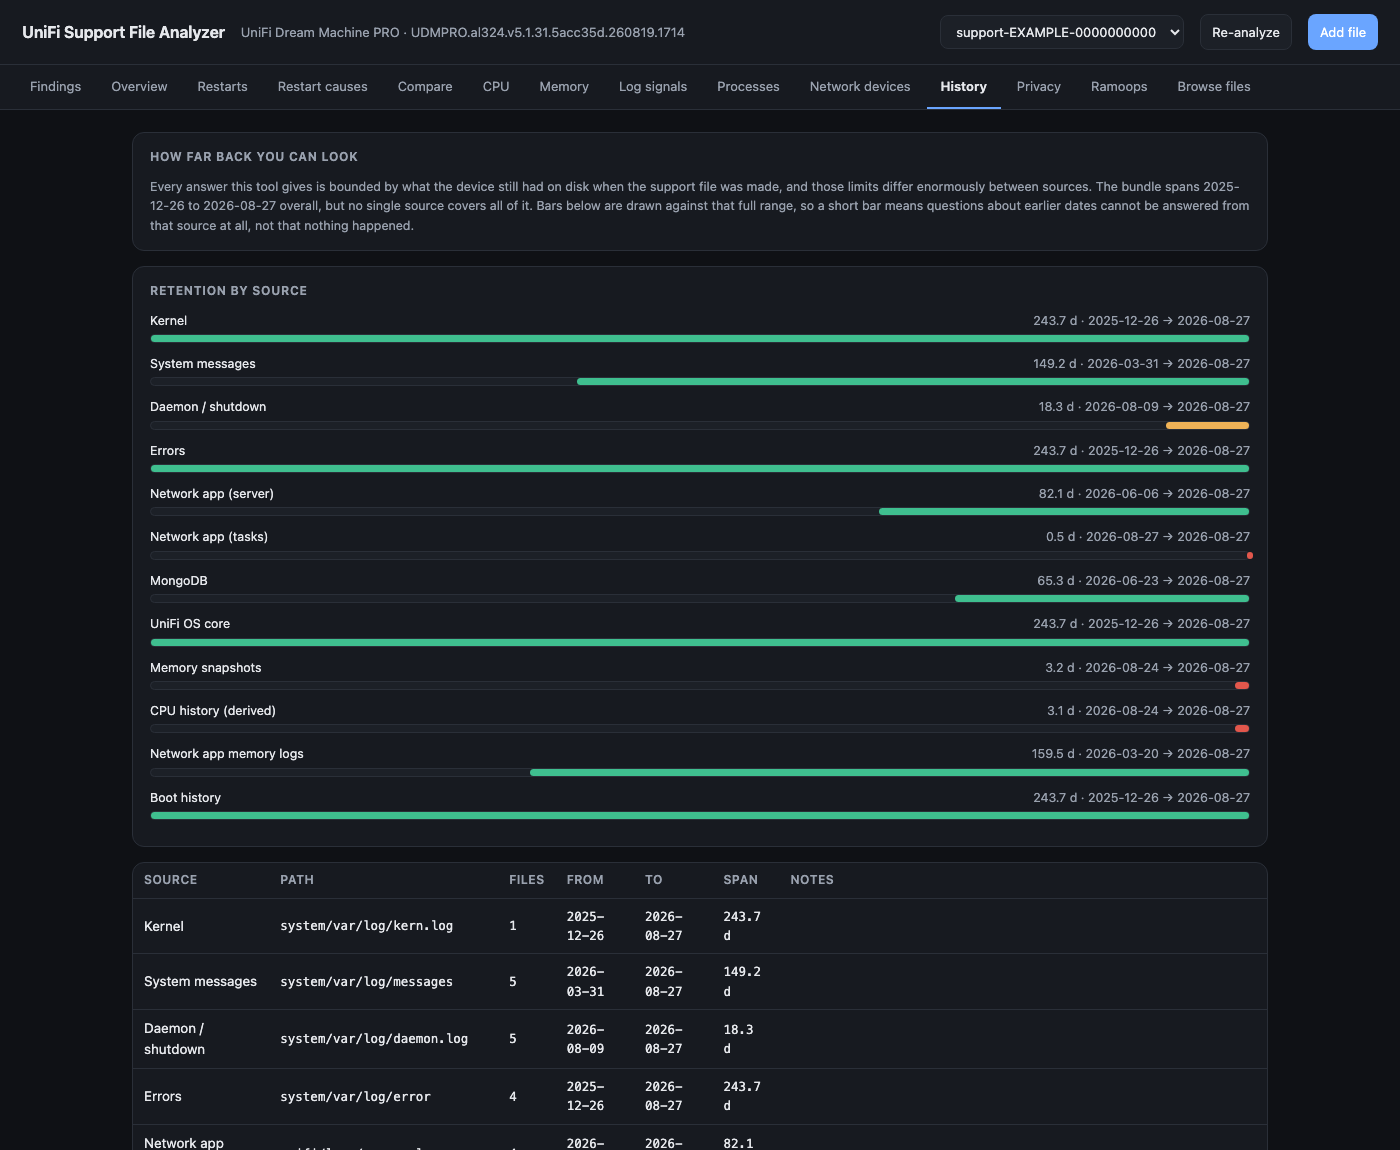
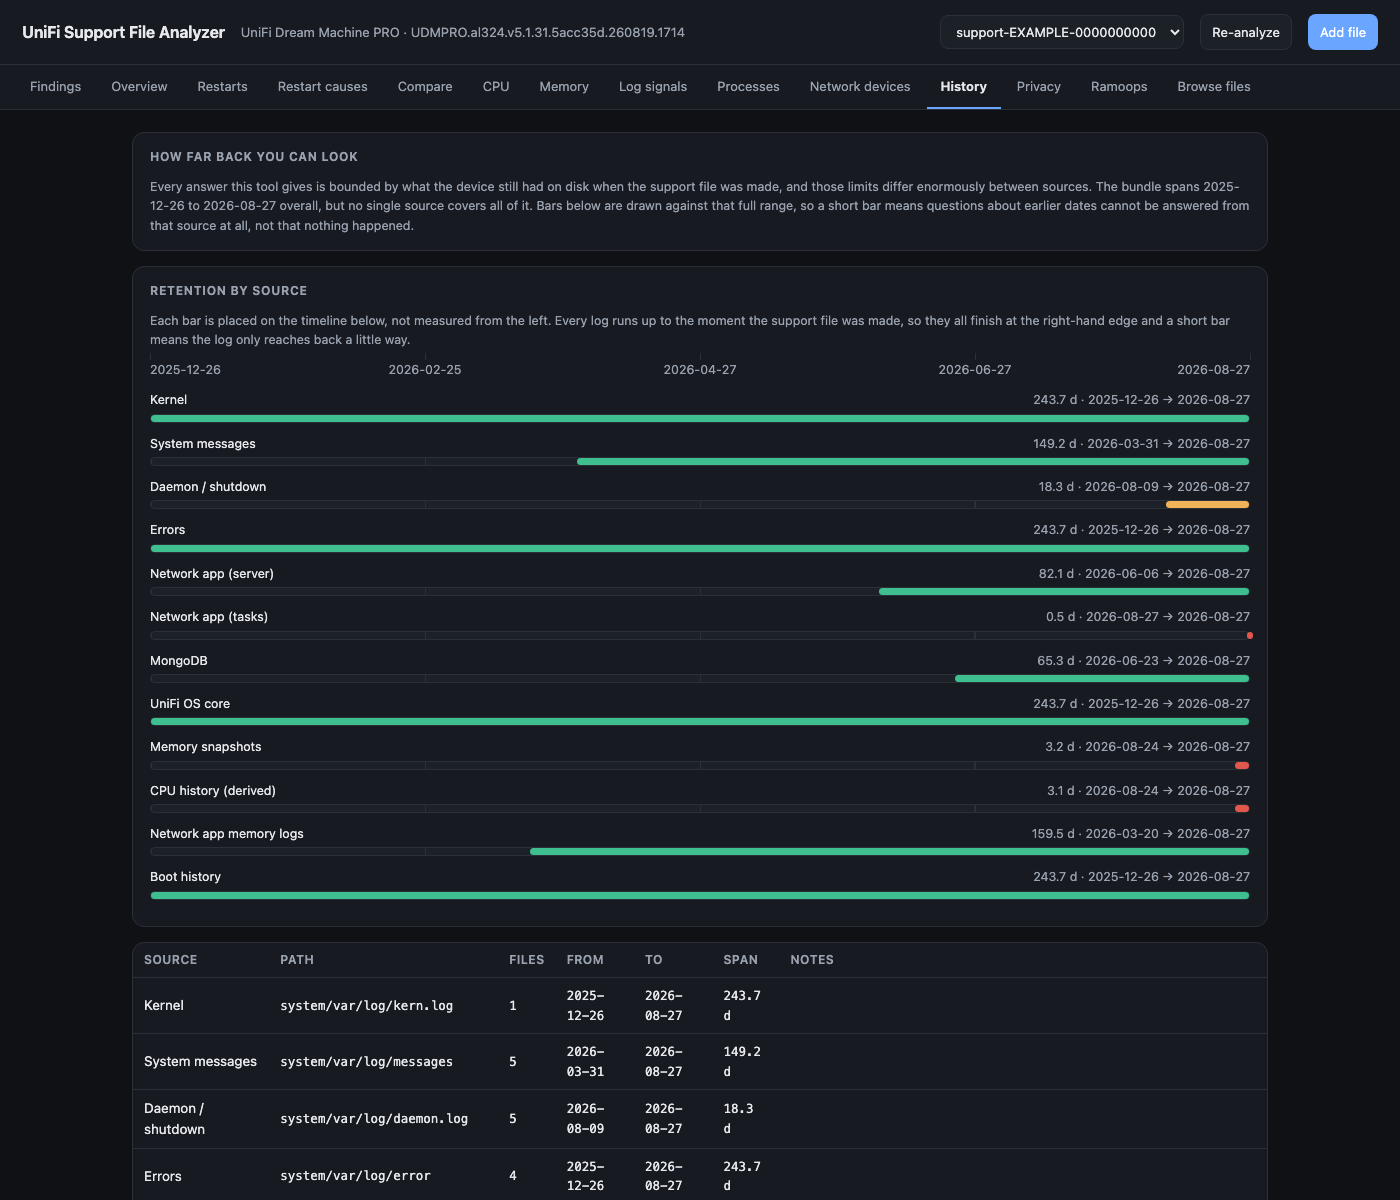
Give the History bars a timeline to sit on
Every log runs up to the moment of capture, so every bar was anchored to the
right-hand edge. With no scale to read them against, a short bar looked like a
right-aligned progress bar rather than a position in time.

Adds a shared date axis above the bars and gridlines through each track, so
where a bar starts is legible as a date, plus a sentence saying why they all
end together.

diff --git a/static/app.js b/static/app.js
@@ -885,6 +885,33 @@ function viewHistory() {
       `range, so a short bar means questions about earlier dates cannot be answered ` +
       `from that source at all, not that nothing happened.`));
 
+  // A shared scale, drawn once above the bars. Without it every short bar sits
+  // against the right edge with nothing to measure against, and reads as a
+  // right-aligned progress bar rather than as a position in time.
+  const axisDate = f => {
+    const d = new Date(t0 + span * f);
+    return d.toISOString().slice(0, 10);
+  };
+  const TICKS = [0, 0.25, 0.5, 0.75, 1];
+  const gridline =
+    'background-image:repeating-linear-gradient(to right,' +
+    'var(--border) 0 1px, transparent 1px 25%);';
+
+  const axis = el('div', { style: 'margin:4px 0 14px' },
+    el('div', { style: 'position:relative;height:7px' },
+      ...TICKS.map(f => el('div', {
+        style: `position:absolute;left:${f * 100}%;top:0;bottom:0;width:1px;` +
+          'background:var(--border)',
+      }))),
+    el('div', { style: 'position:relative;height:16px' },
+      ...TICKS.map((f, i) => el('div', {
+        className: 'small muted',
+        style: `position:absolute;left:${f * 100}%;white-space:nowrap;` +
+          (i === 0 ? '' : i === TICKS.length - 1
+            ? 'transform:translateX(-100%)' : 'transform:translateX(-50%)'),
+        textContent: axisDate(f),
+      }))));
+
   const bars = dated.map(s => {
     const a = (Date.parse(s.from) - t0) / span * 100;
     const w = Math.max((Date.parse(s.to) - Date.parse(s.from)) / span * 100, 0.6);
@@ -892,7 +919,12 @@ function viewHistory() {
       el('div', { className: 'small', style: 'display:flex;justify-content:space-between;gap:10px' },
         el('span', {}, s.label),
         el('span', { className: 'muted' }, `${s.days} d · ${fmtDate(s.from)} → ${fmtDate(s.to)}`)),
-      el('div', { style: 'position:relative;height:9px;background:var(--panel-2);border:1px solid var(--border);border-radius:5px;margin-top:4px' },
+      el('div', {
+        title: `${s.label}: ${fmtDate(s.from)} to ${fmtDate(s.to)}`,
+        style: 'position:relative;height:9px;background:var(--panel-2);' +
+          'border:1px solid var(--border);border-radius:5px;margin-top:4px;' +
+          gridline,
+      },
         el('div', {
           style: `position:absolute;left:${a}%;width:${w}%;top:0;bottom:0;` +
             `background:${s.days >= 60 ? '#3fbf8f' : s.days >= 14 ? '#f0b357' : '#e2574c'};` +
@@ -911,7 +943,13 @@ function viewHistory() {
 
   render(intro,
     el('div', { className: 'card', style: 'margin-top:15px' },
-      el('h3', {}, 'Retention by source'), ...bars),
+      el('h3', {}, 'Retention by source'),
+      el('p', { className: 'small muted', style: 'margin:0 0 4px' },
+        'Each bar is placed on the timeline below, not measured from the left. ' +
+        'Every log runs up to the moment the support file was made, so they all ' +
+        'finish at the right-hand edge and a short bar means the log only ' +
+        'reaches back a little way.'),
+      axis, ...bars),
     el('div', { className: 'table-wrap', style: 'margin-top:15px' }, el('table', {},
       el('thead', {}, el('tr', {}, ...['Source', 'Path', 'Files', 'From', 'To', 'Span', 'Notes']
         .map(h => el('th', {}, h)))),

diff --git a/README.md b/README.md
@@ -89,8 +89,10 @@ cleaned copy you can actually share.
 
 How far back each log actually goes. Start here when an analysis looks empty,
 because "nothing happened" and "nobody was writing it down" look identical
-otherwise. Note the memory snapshots cover three days while the kernel log
-covers eight months.
+otherwise. Each bar sits on a shared timeline rather than being measured from
+the left, so where it starts is when that log's coverage begins. They all finish
+at the right-hand edge because every log runs up to the moment of capture. Note
+the memory snapshots cover three days while the kernel log covers eight months.
 
 ![The History tab showing how far back each log reaches](docs/screenshots/history.png)
 
